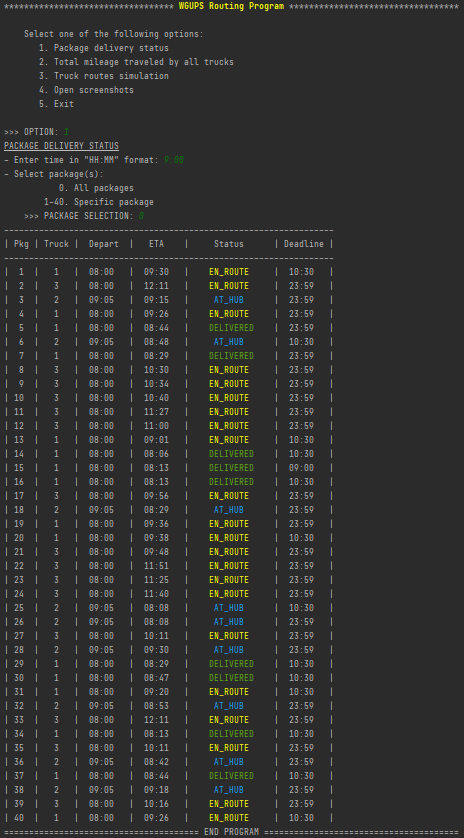
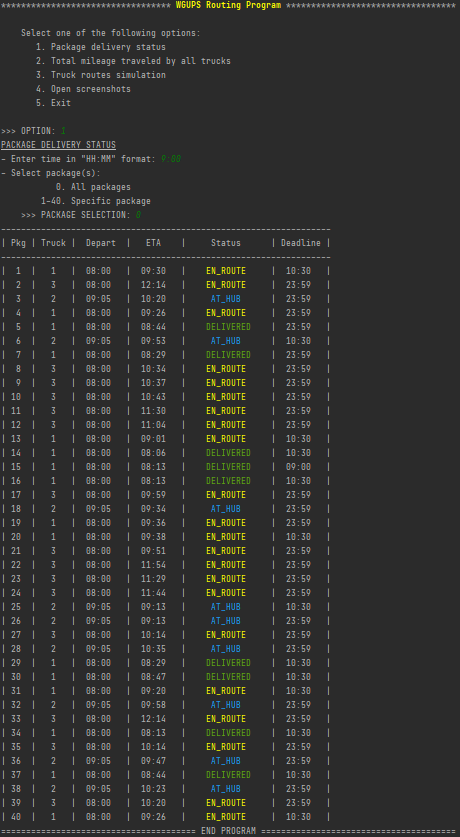
Fixed bugs for delayed packages

Changed region(s): [[0.0, 0.0, 1.0, 1.0], [0.8217, 0.994, 0.9739, 1.0], [0.3652, 0.1864, 0.3957, 0.2174]]

diff --git a/simulation.py b/simulation.py
@@ -24,6 +24,7 @@ def run(printRoute):
     global current_time, mileage, departure_time
     current_time = [convert_time('08:00') for i in range(len(truck) + 1)]  # Delivery starts at 8:00 AM
     departure_time = [convert_time('08:00') for i in range(len(truck) + 1)]
+    current_time[2] = delayed_time  # Truck 2 starts at delayed time
     departure_time[2] = delayed_time  # Truck 2 starts at delayed time
     mileage = [0 for i in range(len(truck) + 1)]  # Reset mileage every time simulation runs
     total_mileage = 0
@@ -115,12 +116,14 @@ def package_status(pkg, status_time):
     print_package_header()
     if pkg == 0:
         for pkg in package_list:
+
             if status_time <= get_package(pkg).departure:
                 get_package(pkg).status = Status.AT_HUB
             elif status_time <= get_package(pkg).arrival:
                 get_package(pkg).status = Status.EN_ROUTE
             else:
                 get_package(pkg).status = Status.DELIVERED
+
             print(get_package(pkg))
     else:
         if status_time <= get_package(pkg).departure:
